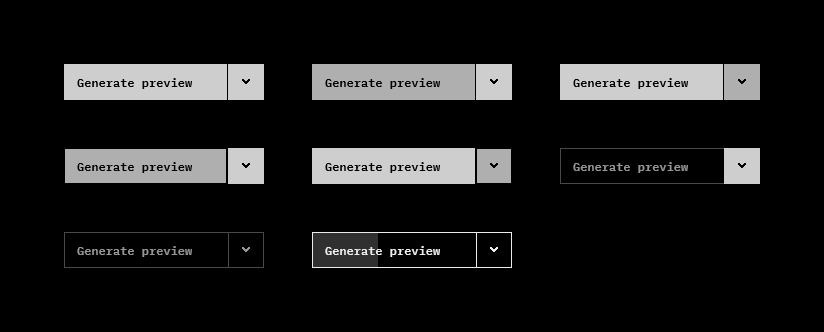
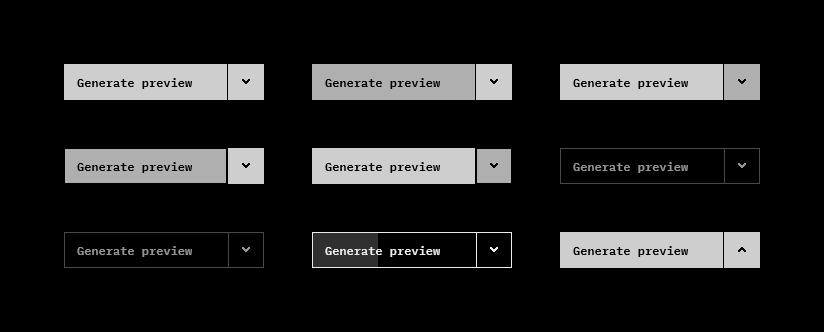
feat(ui): a split action's two parts look alike, its chevron follows the opening direction and its list can take a given width

Changed region(s): [[0.6675, 0.6928, 0.9405, 0.8133], [0.8799, 0.4217, 0.9405, 0.5723]]

diff --git a/crates/mere-ui/src/split.rs b/crates/mere-ui/src/split.rs
@@ -2,10 +2,16 @@
 //! the right, parted from it by a 1 px line, opens a menu of choices (`Trigger::Split` of the menu, which is where
 //! the list, the keyboard and the closing are). What is chosen in the list is shown or remembered by the caller.
 //!
-//! Each part has the hover, the held, the focus and the disabled looks of the primary action (`ActionLook::Primary`),
-//! its own: a word that cannot act (the map already shows these settings) leaves the chevron lit. While a run is under
-//! way the word takes the running look (`ActionLook::Running`) and the chevron the same frame, with nothing filled.
-//! The focus is a 1 px frame inside the part in the colour of its word, the one that shows against its fill.
+//! The two parts are one action and look alike: both filled, or both outlined and faded when either is disabled (a
+//! word that cannot act with a chevron that still opens the list is shown as a whole faded button, its chevron
+//! lighting to the text colour under the pointer and framed in it under the keyboard, so that it can still be found).
+//! Each part has its own hover, held and focus looks of the primary action (`ActionLook::Primary`). While a run is
+//! under way the word takes the running look (`ActionLook::Running`) and the chevron the same frame, with nothing
+//! filled. The focus on a filled part is a 1 px frame inside it in the colour of its word, the one that shows against
+//! its fill.
+//!
+//! The chevron points up when the list opens above the button (`SplitOpts::up`), down when it opens under it. The list
+//! is as wide as the button, or as the rect `SplitOpts::list_over` gives (a row of several actions).
 //!
 //! Keyboard: Enter or Space on the word acts; Down, Alt+Down, Enter or Space on the chevron opens the list.
 //!
@@ -16,6 +22,7 @@
 //! if r.word.is_some_and(|w| w.clicked) { /* act */ }
 //! ```
 
+use mere_base::Rect;
 use mere_layout::{Align, Dim, Edges, Margin, Side, Style};
 
 use crate::id::Id;
@@ -35,6 +42,9 @@ pub struct SplitOpts {
     pub chevron_disabled: bool,
     /// The list opens above the button (a control at the bottom of a panel) instead of under it.
     pub up: bool,
+    /// The list takes this rect's left edge and width, as the caller's last frame laid it out (`Ui::rect`), instead of
+    /// the button's.
+    pub list_over: Option<Rect>,
 }
 
 /// What the pointer and the keyboard did to the parts, as the last frame left them.
@@ -52,39 +62,42 @@ impl Ui {
     /// list.
     pub fn split_action(&mut self, key: &str, word: &str, look: ActionLook, open: &mut bool, opts: SplitOpts, rows: impl FnOnce(&mut Ui)) -> MenuResp {
         debug_assert!(matches!(look, ActionLook::Primary | ActionLook::Running { .. }), "a split action is primary or running");
-        let menu = MenuOpts { up: opts.up, disabled: opts.chevron_disabled, ..MenuOpts::default() };
+        let menu = MenuOpts { up: opts.up, disabled: opts.chevron_disabled, over: opts.list_over, ..MenuOpts::default() };
         self.menu(key, Trigger::Split { word, look, word_disabled: opts.word_disabled }, open, menu, rows)
     }
 
     /// The three boxes of the button. When both parts are filled the 1 px line between them is the ground showing
     /// through; otherwise (a part outlined or running) the two frames share their line, overlapped by `FRAME`.
-    pub(crate) fn split_parts(&mut self, word_id: Id, chevron_id: Id, text: &str, look: ActionLook, word_off: bool, chevron_off: bool, st: SplitState) {
+    pub(crate) fn split_parts(&mut self, word_id: Id, chevron_id: Id, text: &str, look: ActionLook, word_off: bool, chevron_off: bool, up: bool, st: SplitState) {
         let t = *self.theme();
         let running = match look {
             ActionLook::Running { share } => Some(share),
             _ => None,
         };
+        // One look for both parts: faded as soon as one cannot act, though a usable chevron of a faded split still
+        // answers the pointer and the keyboard (text colour), so that it is not lost.
+        let faded = word_off || chevron_off;
         // (paint, colour of what is drawn in the part) of a primary part; the focus is a frame in that colour.
-        let primary = |off: bool, lit: bool, focus: bool| {
-            let (fill, frame, ink) = if off {
-                (None, t.edge, t.muted)
+        let primary = |lit: bool, focus: bool| {
+            let (fill, frame, ink) = if faded {
+                (None, if focus { t.text } else { t.edge }, if lit || focus { t.text } else { t.muted })
             } else if lit {
                 let c = t.faded(t.fill, FADE_LIT);
                 (Some(c), c, t.on_fill)
             } else {
                 (Some(t.fill), t.fill, t.on_fill)
             };
-            let frame = if focus && !off { t.on_fill } else { frame };
+            let frame = if focus && !faded { t.on_fill } else { frame };
             (Paint::Box { fill, frame: Some(frame) }, ink)
         };
-        let filled = running.is_none() && !word_off && !chevron_off;
+        let filled = running.is_none() && !faded;
         let row = Style { w: Dim::Pct(100.0), h: Dim::Px(CONTROL_LARGE), ..Style::default() };
         self.node("split", row, |ui| {
             let word_style = Style { h: Dim::Px(CONTROL_LARGE), pad: Edges::vh(FRAME, FRAME + INSET_WIDE), align_items: Align::Center, grow: 1.0, min_w: Dim::Px(0.0), ..Style::default() };
             let look_word = TextLook { weight: Weight::SemiBold, ..TextLook::body(Tone::Text) };
             let (paint, ink) = match running {
-                Some(share) => (Paint::Running { frame: if word_off { t.edge } else { t.text }, bar: t.line, share }, t.text),
-                None => primary(word_off, st.word_lit, st.word_focus),
+                Some(share) => (Paint::Running { frame: if faded { t.edge } else { t.text }, bar: t.line, share }, t.text),
+                None => primary(st.word_lit, st.word_focus),
             };
             ui.open("word", word_id, word_style, paint);
             ui.add_text(text, look_word, ink, false, Style::default());
@@ -95,11 +108,11 @@ impl Ui {
             let overlap = if filled { Margin::default() } else { Margin { left: Side::Px(-FRAME), ..Margin::default() } };
             let chevron_style = Style { w: Dim::Px(CONTROL_LARGE), h: Dim::Px(CONTROL_LARGE), shrink: 0.0, align_items: Align::Center, margin: overlap, ..Style::default() };
             let (paint, ink) = match running {
-                Some(_) => (Paint::Box { fill: None, frame: Some(if chevron_off { t.edge } else { t.text }) }, if chevron_off { t.muted } else { t.text }),
-                None => primary(chevron_off, st.chevron_lit, st.chevron_focus),
+                Some(_) => (Paint::Box { fill: None, frame: Some(if faded { t.edge } else { t.text }) }, t.text),
+                None => primary(st.chevron_lit, st.chevron_focus),
             };
             ui.open("line", chevron_id, chevron_style, paint);
-            ui.add("chevron", Style { w: Dim::Px(crate::ui::CHEVRON.x), h: Dim::Px(crate::ui::CHEVRON.y), shrink: 0.0, margin: Margin { left: Side::Auto, right: Side::Auto, ..Margin::default() }, ..Style::default() }, Paint::Chevron { color: ink });
+            ui.add("chevron", Style { w: Dim::Px(crate::ui::CHEVRON.x), h: Dim::Px(crate::ui::CHEVRON.y), shrink: 0.0, margin: Margin { left: Side::Auto, right: Side::Auto, ..Margin::default() }, ..Style::default() }, Paint::Chevron { color: ink, up });
             ui.close();
         });
     }

diff --git a/demos/widgets/tests/behaviour.rs b/demos/widgets/tests/behaviour.rs
@@ -1468,6 +1468,9 @@ fn a_split_action_whose_word_is_disabled_still_opens_its_list() {
         let (word, chevron) = (sc.rect(out.word.unwrap()), sc.rect(out.chevron.unwrap()));
         let list = sc.frame(|ui| out = split(ui, &mut open, off));
         sc.pic(&list).is(word.x + 4.0, word.y + word.h - 1.5, t.ground, "the word is outlined, not filled");
+        sc.pic(&list).is(chevron.x + 1.5, chevron.y + chevron.h - 1.5, t.ground, "so is the chevron: one look for both parts");
+        sc.pic(&list).is(word.x + 0.5, word.y + word.h / 2.0, t.edge, "the word's frame is the edge colour");
+        sc.pic(&list).is(chevron.x + chevron.w - 0.5, chevron.y + chevron.h / 2.0, t.edge, "the chevron's, the same");
         sc.click(centre(word), 1);
         sc.frame(|ui| out = split(ui, &mut open, off));
         assert!(!out.clicked, "a disabled word does not act");
@@ -1478,5 +1481,62 @@ fn a_split_action_whose_word_is_disabled_still_opens_its_list() {
         let both_off = SplitOpts { word_disabled: true, chevron_disabled: true, ..SplitOpts::default() };
         sc.frame(|ui| out = split(ui, &mut open, both_off));
         assert!(!open && out.list.is_none());
+    });
+}
+
+/// A split action at (140, 200), 200 wide, opening `up` or under; the list as wide as `over` when given.
+fn split_dir(ui: &mut Ui, open: &mut bool, up: bool, over: Option<Rect>) -> SplitOut {
+    let mut out = SplitOut::default();
+    ui.node("w", Style { w: Dim::Px(200.0), ..at(140.0, 200.0) }, |ui| {
+        let opts = SplitOpts { up, list_over: over, ..SplitOpts::default() };
+        let r = ui.split_action("g", "Generate", ActionLook::Primary, open, opts, |ui| {
+            ui.group("details", |ui| {
+                ui.action_row("a", "A choice with a long name that wants more room than the button");
+            });
+        });
+        out.word = r.word.map(|w| w.id);
+        out.chevron = Some(r.line.id);
+        out.list = r.list;
+    });
+    out
+}
+
+#[test]
+fn a_split_action_points_its_chevron_the_way_its_list_opens() {
+    both(|t| {
+        // The chevron's top row is two 2 px bars at its ends when it points down, a 2 px bar in its middle up.
+        for (up, left_painted) in [(false, true), (true, false)] {
+            let mut sc = Scene::new(t);
+            let (mut open, mut out) = (false, SplitOut::default());
+            sc.frame(|ui| out = split_dir(ui, &mut open, up, None));
+            let list = sc.frame(|ui| out = split_dir(ui, &mut open, up, None));
+            let c = sc.rect(out.chevron.unwrap());
+            let (x, y) = (c.x + ((c.w - 8.0) / 2.0).floor(), (c.y + (c.h - 5.0) / 2.0).floor());
+            let pic = sc.pic(&list);
+            let (ink, bg) = (t.on_fill, t.fill);
+            pic.is(x + 0.5, y + 0.5, if left_painted { ink } else { bg }, "the top row's left end");
+            pic.is(x + 3.5, y + 0.5, if left_painted { bg } else { ink }, "the top row's middle");
+            pic.is(x + 3.5, y + 4.5, if left_painted { ink } else { bg }, "the bottom row's middle");
+        }
+    });
+}
+
+#[test]
+fn a_split_action_list_takes_the_rect_it_is_given_instead_of_the_button() {
+    both(|t| {
+        let mut sc = Scene::new(t);
+        let (mut open, mut out) = (true, SplitOut::default());
+        let row = Rect::new(30.0, 0.0, 340.0, 10.0);
+        sc.frame(|ui| out = split_dir(ui, &mut open, true, Some(row)));
+        sc.frame(|ui| out = split_dir(ui, &mut open, true, Some(row)));
+        let list = sc.rect(out.list.expect("open"));
+        assert!((list.x - 30.0).abs() < 0.01 && (list.w - 340.0).abs() < 0.01, "left edge and width of the rect: {list:?}");
+        let button = sc.rect(out.word.unwrap());
+        assert!(list.y + list.h <= button.y + 0.01, "still above the button");
+        // Without it, the list is the button's width.
+        sc.frame(|ui| out = split_dir(ui, &mut open, true, None));
+        sc.frame(|ui| out = split_dir(ui, &mut open, true, None));
+        let list = sc.rect(out.list.unwrap());
+        assert!((list.x - 140.0).abs() < 0.01 && (list.w - 200.0).abs() < 0.01, "the button's: {list:?}");
     });
 }

diff --git a/crates/mere-ui/src/menu.rs b/crates/mere-ui/src/menu.rs
@@ -71,6 +71,10 @@ pub struct MenuOpts {
     /// the focus (a disabled row is skipped), in build order: the first when None. A list of one choice gives its
     /// chosen row, as a list box does.
     pub start: Option<usize>,
+    /// The list takes the left edge and the width of this rect (window coordinates, as the caller's last frame laid
+    /// it out: `Ui::rect`) instead of its trigger's: a trigger that is one part of a row whose list should be as wide
+    /// as the row. The list is then that wide whatever its rows want. Ignored on a tab, whose list sizes itself.
+    pub over: Option<Rect>,
 }
 
 /// What the person did to a menu this frame.
@@ -260,16 +264,16 @@ impl Ui {
             Trigger::Split { word: text, look, word_disabled } => {
                 let w = word.expect("a split has its word");
                 let state = SplitState { word_lit: w.hovered || w.held, chevron_lit: resp.hovered || resp.held, word_focus: self.has_focus(w.id), chevron_focus: has };
-                self.split_parts(w.id, lid, text, look, word_disabled, opts.disabled, state);
+                self.split_parts(w.id, lid, text, look, word_disabled, opts.disabled, opts.up, state);
             }
             Trigger::Line(text) => {
-                let look = LineLook { height: opts.height.unwrap_or(CONTROL_COMPACT), disabled: opts.disabled, focused: has };
+                let look = LineLook { height: opts.height.unwrap_or(CONTROL_COMPACT), disabled: opts.disabled, focused: has, up: opts.up };
                 self.menu_line("line", lid, text, look);
             }
             Trigger::Tab(word) => {
                 let lit = resp.hovered || resp.held;
                 let (_, color) = self.tab_box("line", lid, lit, word, TabLook::Strip, TabOpts { pressed: *open, disabled: opts.disabled }, Margin::default());
-                self.add_chevron(false, color);
+                self.add_chevron(false, color, opts.up);
                 self.close();
             }
         }
@@ -292,6 +296,13 @@ impl Ui {
                 margin.top = Side::Px(GAP_TIGHT);
             }
             let style = Style { position: Position::Absolute, inset, margin, column: true, pad: Edges::vh(FRAME + INSET_TIGHT, FRAME), ..Style::default() };
+            let mut style = style;
+            if let (Some(over), Some(wrap), false) = (opts.over, self.rect(id), tab) {
+                // Moved by what separates the row's left edge from the trigger's; whole pixels, so the frame is crisp.
+                style.inset.left = Dim::Px((over.x - wrap.x).round());
+                style.inset.right = Dim::Auto;
+                style.w = Dim::Px(over.w.round());
+            }
             self.menu_rows = Some(Vec::new());
             // The row `start` names (Down: the first) takes the focus as it is built, unless Up asked for the last,
             // given once all are built.

diff --git a/crates/mere-ui/src/ui.rs b/crates/mere-ui/src/ui.rs
@@ -48,7 +48,8 @@ pub(crate) enum Paint {
     /// The running generate button: its 1 px frame, then the bar from the padding box's left, `share` of its width.
     Running { frame: Color, bar: Color, share: f32 },
     /// The arrow of a line that opens a list: `CHEVRON` in size, painted as filled 1 px rows, as Chrome's is at 1x.
-    Chevron { color: Color },
+    /// `up` turns it over: the list opens above its trigger.
+    Chevron { color: Color, up: bool },
     /// A text field: its own frame, clip, selection, text and caret (field.rs).
     Field(Box<FieldPaint>),
     /// A scroll area: it offsets its children and draws its thumb and fade after them (scroll.rs).
@@ -872,14 +873,15 @@ impl Painter<'_> {
                 let d = Vec2::new(r.x, r.y);
                 self.list.cmds.extend(cmds.iter().map(|c| c.translated(d)));
             }
-            Paint::Chevron { color } => {
+            Paint::Chevron { color, up } => {
                 // [from, to) of each 1 px row, relative to the leaf's top-left. Five rows centred in an even box
                 // land on a half pixel and blur: the top is kept on a whole pixel.
                 const ROWS: [&[(f32, f32)]; 5] = [&[(0.0, 2.0), (6.0, 8.0)], &[(0.0, 3.0), (5.0, 8.0)], &[(1.0, 7.0)], &[(2.0, 6.0)], &[(3.0, 5.0)]];
                 let top = r.y.floor();
                 for (i, row) in ROWS.iter().enumerate() {
+                    let y = if *up { ROWS.len() - 1 - i } else { i };
                     for &(a, b) in *row {
-                        self.list.fill(Rect::new(r.x + a, top + i as f32, b - a, 1.0), *color);
+                        self.list.fill(Rect::new(r.x + a, top + y as f32, b - a, 1.0), *color);
                     }
                 }
             }

diff --git a/crates/mere-ui/src/line.rs b/crates/mere-ui/src/line.rs
@@ -19,17 +19,19 @@ pub(crate) struct LineLook {
     pub disabled: bool,
     /// Framed in the text colour instead of the edge: the line has the keyboard.
     pub focused: bool,
+    /// The list opens above: the chevron points up.
+    pub up: bool,
 }
 
 impl Ui {
     /// The chevron that says a list opens here, `CHEVRON` in size, always `gap` after the text before it: the one rule
     /// of every trigger, so that a text cut short never touches it. `at_end` pushes it to the end of its box, the room
     /// left over going before it, as the line does.
-    pub(crate) fn add_chevron(&mut self, at_end: bool, color: Color) {
+    pub(crate) fn add_chevron(&mut self, at_end: bool, color: Color, up: bool) {
         self.add("chevron_gap", Style { w: Dim::Px(GAP), shrink: 0.0, ..Style::default() }, Paint::None);
         let left = if at_end { Side::Auto } else { Side::Px(0.0) };
         let style = Style { w: Dim::Px(CHEVRON.x), h: Dim::Px(CHEVRON.y), shrink: 0.0, margin: Margin { left, ..Margin::default() }, ..Style::default() };
-        self.add("chevron", style, Paint::Chevron { color });
+        self.add("chevron", style, Paint::Chevron { color, up });
     }
 
     /// The line: a framed box as wide as its parent, its text cut at its end (as the browser's select does) and the
@@ -49,7 +51,7 @@ impl Ui {
         };
         let node = self.open(key, id, style, Paint::Box { fill: None, frame: Some(frame) });
         self.add_ellipsis(text, TextLook::body(Tone::Text), fade(t.text), false);
-        self.add_chevron(true, fade(t.text));
+        self.add_chevron(true, fade(t.text), look.up);
         self.close();
         node
     }

diff --git a/demos/widgets/src/cards/split_action.rs b/demos/widgets/src/cards/split_action.rs
@@ -1,5 +1,6 @@
 //! The split action card: the primary button in two parts, the word and the chevron that opens a list, in rest, hover
-//! (over each part), held, a word that cannot act, both parts disabled and the running look. The Design System has no
+//! (over each part), held, a word that cannot act (both parts faded alike), both parts disabled, the chevron of a list
+//! that opens above, and the running look. The Design System has no
 //! preview of it yet.
 
 use mere_layout::{Dim, Style};
@@ -26,7 +27,7 @@ pub fn blocks() -> Vec<Block> {
     vec![Block::matrix(vec![
         vec![cell(State::Rest, primary, on, false), cell(State::Hover, primary, on, false), cell(State::Hover, primary, on, true)],
         vec![cell(State::Held, primary, on, false), cell(State::Held, primary, on, true), cell(State::Rest, primary, SplitOpts { word_disabled: true, ..on }, false)],
-        vec![cell(State::Rest, primary, SplitOpts { word_disabled: true, chevron_disabled: true, ..on }, false), cell(State::Rest, ActionLook::Running { share: 0.4 }, on, false)],
+        vec![cell(State::Rest, primary, SplitOpts { word_disabled: true, chevron_disabled: true, ..on }, false), cell(State::Rest, ActionLook::Running { share: 0.4 }, on, false), cell(State::Rest, primary, SplitOpts { up: true, ..on }, false)],
     ])]
 }
 

diff --git a/crates/mere-ui/src/select.rs b/crates/mere-ui/src/select.rs
@@ -65,7 +65,7 @@ impl Ui {
         let mut open = self.was_open(key);
         let mut pick = None;
         let shown = options.get(*chosen).map_or("", String::as_str);
-        let menu = MenuOpts { up: opts.up, disabled: opts.disabled, height: Some(opts.height.unwrap_or(CONTROL)), start: Some(*chosen) };
+        let menu = MenuOpts { up: opts.up, disabled: opts.disabled, height: Some(opts.height.unwrap_or(CONTROL)), start: Some(*chosen), over: None };
         let current = *chosen;
         let r = self.menu(key, Trigger::Line(shown), &mut open, menu, |ui| {
             ui.group("options", |ui| {

diff --git a/AGENTS.md b/AGENTS.md
@@ -21,7 +21,7 @@ A small native interface toolkit in Rust, owned end to end and grown piece by pi
 - `crates/mere-png`: the PNG writer (deflate with fixed Huffman codes) and a reader for the files it writes, for picture tests.
 - `crates/mere-win32`: the Windows backend: Win32 window, Direct3D 11 for meshes, Direct2D and DirectWrite for the interface, offscreen rendering, the system's light or dark setting and its change (`system_dark`, `WM_SETTINGCHANGE`), the input method (IMM32: the composition as `Event::Ime`, the candidate window at the caret, off outside text fields), the own frame (`run_with` and `Frame`: hit test, sizing edges, minimum size, cursors, the wake timer, occlusion), and the window's three optional keepsakes in `Frame` (`icon`: an RGBA square for the taskbar; `place`: a file where the place and size are kept at close and restored at start if a screen still shows them, its text and checks in `place.rs`; `hwnd_file`: the window's handle as a decimal while it exists), and the system launcher (`SystemLauncher`: `CREATE_NO_WINDOW`, `taskkill /T /F`, Explorer, with `std::process` only; the folder dialog is the shell's own, `IFileOpenDialog`, modal over the window). The system's reduced-motion setting (`reduced_motion`, "Animation effects" off, read once by the app).
 - `crates/mere-layout`: pure layout: flex (build step 7), the reduced grid, absolute boxes against their parent and the layout side of overflow (build step 8), tree, measure callbacks, a debug dump. No OS code.
-- `crates/mere-ui`: the immediate-mode interface: ids, pointer input, the design system's values in `tokens.rs` (the palette, the spacing scale and its roles, sizes on a 4 px grid, four fades; a widget takes every colour and measure from there, a padding counting the 1 px frame), the dark and light themes as roles pointing to the palette, label, the action (`action`, once named button; `action_icon` puts an icon before its word), toggle, fold, tabs, the text field and number field, the ellipsis text, the vertical scroll area with the kit's own scrollbar (a 1 px track, a 3 px thumb centred on it, a chevron arrow at each end that has content beyond it, in the theme's line, muted and text colours; shown only on overflow, in its own 12 px gutter), and the list row (also as a round mark), legend head, part head, pick links, the hover area, the icon parser, the window buttons and the grips of `chrome.rs`, the cursor shapes and the tooltips, the composition in the text field and the wide cells, and the history trend row with its plotted lines (editing model in `edit.rs`, one focused field, keys and clipboard through `mere-base`); hit tests use the last frame's rects. Depends on `mere-base` and `mere-layout` only. And, for the launcher's Home (step 21): the select (`select_menu`) and the list hung from a strip tab (`tab_menu`, with `TabMenuRow`s that can be disabled), both a menu holding one group of immediate-selection rows that closes on its pick (`select.rs`), so that the kit has one system of open lists, the tool action with its name (`tool_action`), the launcher's icon looks (`IconLook::Square`, `Filled`, `Bare`, joined squares), the hover box, disabled text and number fields (`FieldOpts`, `number_with`), the underlined action, the toggle's own measures (`toggle_with`), and the page's ease and its 220 ms slide (`anim.rs`, `Slide`). And the overlay (`Ui::overlay`): a framed box painted after the whole tree, outside every clip and on whole pixels, that moves nothing when it is an absolute box; what it covers is not hovered and takes no press, and it shows only while some of its parent is in sight. And the help of a row (`help.rs`): the mark after a label that shows on its row (`help_mark`, placed by `help_label`), the panel that opens over the row from its top and is raised only at the window's bottom (`help_panel`, inside a `help_anchor`), and the small icon to click beside a text (`small_icon`). And the selection controls, each piece made once and assembled. The selector (`selector.rs`): `selector_mark` paints the atom alone, the multiple selector (`Selector::Multiple`, square, the default, a check when selected) or the single selector (`Selector::Single`, round, a dot), on whole pixels at `MARK_SIZE`; it takes no press and shows what `MarkOpts` gives it (disabled, lit, on the selection fill), and every piece that shows a selector paints it there. The labelled selector (`selector` with `SelectorOpts`) puts it beside a label, `control-compact` tall; like the toggle it takes no focus, and its press is only reported, its caller applying it, whatever the kind. The kit is built on Brad Frost's levels, each piece made once and each level only assembling the one below, placed with the spacing roles of `tokens.rs`; why each piece is the way it is stands in its module's comment, and every public name with its former name and the usual one in `docs/naming.md`. Atoms: the selector, the rule (`rule.rs`: `Rule::Section` in the edge colour opens a panel's section, `Rule::Separator` in the line colour parts things inside one), the disabled look (`Theme::disabled_if`, the one fade) and the hover tint (`Theme::tint`). The lines several components share (`line.rs`): the line a list opens from (a framed box, its text cut at its end, the chevron at `CHEVRON` size) and the detail line (a muted "detail · detail_tail" line whose tail is cut at its start, `ellipsize_start`). Molecules, the rows of a list (`row.rs`), on one grid (a lead column `MARK_SIZE` wide facing the label's first line, its drop worked out from the x-height, and the text column, the detail line on a second grid row under the label, so that turning it on or off moves nothing else; `LIST_ROW` tall on one line): the selection row (`selection_row` with a `SelectionRow`: a selector, the whole row takes the press, `Resp.clicked` asks its caller to change `selected`), the action row (`action_row`: no selector, its text lined up with the labels) and the immediate-selection row (`immediate_row` with an `ImmediateRow`: no selector, applied at once, the selected one lit with the tint and marked by an indicator `INDICATOR_W` wide); and the value row (`value.rs`: `value_row`, a label with its help mark, an optional note and a control in a column every row shares). No row, group or atom has a frame or a fill: the focused row is filled with the selection colour, a state. Organisms: the group (`group.rs`: `group`, rows stacked, parted from a group it follows by a separator it places itself; `titled_group`, a title in capitals and a separator over the rows, `gap-wide` after a group) and the split action (`split.rs`: `split_action`, a primary button whose word acts and whose chevron part, parted by a 1 px line, opens a list as wide as the whole button, the menu's `Trigger::Split`; each part has the primary's hover, held, focus and disabled looks, Enter or Space on the word acts, Down, Enter or Space on the chevron opens) and the menu (`menu.rs`: `menu` with a `Trigger`, a line, a strip tab or a split, that opens above it (`MenuOpts::up`) or under it an overlay holding the groups the caller builds; from a line exactly as wide, from a tab as wide as its rows say they want (`Ui::menu_want`). It stays open while rows are acted on, closes on Escape or on a press outside (which reaches nothing else), or when its caller closes it, gives the keyboard back to the trigger from its own rows, reports Enter (`MenuResp::enter`), never scrolls, and opens on the row `MenuOpts::start` names (a select's chosen one). Rows and the trigger hold the one focus as a field does (a press, Tab); Up and Down move it through the open list and open the closed one; the backend sends Space as the character ' '). Templates (`template.rs`): `stage_template` places a stage and up to two side panels from a `StagePlan` (the widths are the application's), beside with a grip in each gap (`split_grip`, reported in `GripResp`) or stacked, each panel then one whole that scrolls (`panel_scroll`). A status sentence under a control is `paragraph` with `TextLook::small(Tone::Warn)`, amber. For the launcher's screens: the section that does not fold (`section.rs`: `section`, its actions at the right end of the head where a fold has its sign; a section with no action is a `fold`), the list line (`list_line.rs`: name and version, then fixed slots for a new version, an action and an icon action, so that lines of different states stay aligned) and the page's title line (`page.rs`: `page_head`, back action, title and what the page offers at its end). And the canvas that takes the keyboard (`Ui::canvas_focus`: a press or Tab focuses it, its arrows, Home, End and Enter reach it as `CanvasKeys` and no other widget, and `Ui::focus_ring` gives it the kit's frame in the text colour), for a control the application draws itself.
+- `crates/mere-ui`: the immediate-mode interface: ids, pointer input, the design system's values in `tokens.rs` (the palette, the spacing scale and its roles, sizes on a 4 px grid, four fades; a widget takes every colour and measure from there, a padding counting the 1 px frame), the dark and light themes as roles pointing to the palette, label, the action (`action`, once named button; `action_icon` puts an icon before its word), toggle, fold, tabs, the text field and number field, the ellipsis text, the vertical scroll area with the kit's own scrollbar (a 1 px track, a 3 px thumb centred on it, a chevron arrow at each end that has content beyond it, in the theme's line, muted and text colours; shown only on overflow, in its own 12 px gutter), and the list row (also as a round mark), legend head, part head, pick links, the hover area, the icon parser, the window buttons and the grips of `chrome.rs`, the cursor shapes and the tooltips, the composition in the text field and the wide cells, and the history trend row with its plotted lines (editing model in `edit.rs`, one focused field, keys and clipboard through `mere-base`); hit tests use the last frame's rects. Depends on `mere-base` and `mere-layout` only. And, for the launcher's Home (step 21): the select (`select_menu`) and the list hung from a strip tab (`tab_menu`, with `TabMenuRow`s that can be disabled), both a menu holding one group of immediate-selection rows that closes on its pick (`select.rs`), so that the kit has one system of open lists, the tool action with its name (`tool_action`), the launcher's icon looks (`IconLook::Square`, `Filled`, `Bare`, joined squares), the hover box, disabled text and number fields (`FieldOpts`, `number_with`), the underlined action, the toggle's own measures (`toggle_with`), and the page's ease and its 220 ms slide (`anim.rs`, `Slide`). And the overlay (`Ui::overlay`): a framed box painted after the whole tree, outside every clip and on whole pixels, that moves nothing when it is an absolute box; what it covers is not hovered and takes no press, and it shows only while some of its parent is in sight. And the help of a row (`help.rs`): the mark after a label that shows on its row (`help_mark`, placed by `help_label`), the panel that opens over the row from its top and is raised only at the window's bottom (`help_panel`, inside a `help_anchor`), and the small icon to click beside a text (`small_icon`). And the selection controls, each piece made once and assembled. The selector (`selector.rs`): `selector_mark` paints the atom alone, the multiple selector (`Selector::Multiple`, square, the default, a check when selected) or the single selector (`Selector::Single`, round, a dot), on whole pixels at `MARK_SIZE`; it takes no press and shows what `MarkOpts` gives it (disabled, lit, on the selection fill), and every piece that shows a selector paints it there. The labelled selector (`selector` with `SelectorOpts`) puts it beside a label, `control-compact` tall; like the toggle it takes no focus, and its press is only reported, its caller applying it, whatever the kind. The kit is built on Brad Frost's levels, each piece made once and each level only assembling the one below, placed with the spacing roles of `tokens.rs`; why each piece is the way it is stands in its module's comment, and every public name with its former name and the usual one in `docs/naming.md`. Atoms: the selector, the rule (`rule.rs`: `Rule::Section` in the edge colour opens a panel's section, `Rule::Separator` in the line colour parts things inside one), the disabled look (`Theme::disabled_if`, the one fade) and the hover tint (`Theme::tint`). The lines several components share (`line.rs`): the line a list opens from (a framed box, its text cut at its end, the chevron at `CHEVRON` size) and the detail line (a muted "detail · detail_tail" line whose tail is cut at its start, `ellipsize_start`). Molecules, the rows of a list (`row.rs`), on one grid (a lead column `MARK_SIZE` wide facing the label's first line, its drop worked out from the x-height, and the text column, the detail line on a second grid row under the label, so that turning it on or off moves nothing else; `LIST_ROW` tall on one line): the selection row (`selection_row` with a `SelectionRow`: a selector, the whole row takes the press, `Resp.clicked` asks its caller to change `selected`), the action row (`action_row`: no selector, its text lined up with the labels) and the immediate-selection row (`immediate_row` with an `ImmediateRow`: no selector, applied at once, the selected one lit with the tint and marked by an indicator `INDICATOR_W` wide); and the value row (`value.rs`: `value_row`, a label with its help mark, an optional note and a control in a column every row shares). No row, group or atom has a frame or a fill: the focused row is filled with the selection colour, a state. Organisms: the group (`group.rs`: `group`, rows stacked, parted from a group it follows by a separator it places itself; `titled_group`, a title in capitals and a separator over the rows, `gap-wide` after a group) and the split action (`split.rs`: `split_action`, a primary button whose word acts and whose chevron part, parted by a 1 px line, opens a list as wide as the whole button, or as a rect the caller gives (`SplitOpts::list_over`, a row of several actions), the menu's `Trigger::Split`; the two parts always look alike (filled, or both outlined and faded when either is disabled, a usable chevron of a faded split lighting under the pointer), each with the primary's hover, held and focus looks, the chevron pointing up when the list opens above, Enter or Space on the word acts, Down, Enter or Space on the chevron opens) and the menu (`menu.rs`: `menu` with a `Trigger`, a line, a strip tab or a split, that opens above it (`MenuOpts::up`) or under it an overlay holding the groups the caller builds; from a line exactly as wide, from a tab as wide as its rows say they want (`Ui::menu_want`). It stays open while rows are acted on, closes on Escape or on a press outside (which reaches nothing else), or when its caller closes it, gives the keyboard back to the trigger from its own rows, reports Enter (`MenuResp::enter`), never scrolls, and opens on the row `MenuOpts::start` names (a select's chosen one). Rows and the trigger hold the one focus as a field does (a press, Tab); Up and Down move it through the open list and open the closed one; the backend sends Space as the character ' '). Templates (`template.rs`): `stage_template` places a stage and up to two side panels from a `StagePlan` (the widths are the application's), beside with a grip in each gap (`split_grip`, reported in `GripResp`) or stacked, each panel then one whole that scrolls (`panel_scroll`). A status sentence under a control is `paragraph` with `TextLook::small(Tone::Warn)`, amber. For the launcher's screens: the section that does not fold (`section.rs`: `section`, its actions at the right end of the head where a fold has its sign; a section with no action is a `fold`), the list line (`list_line.rs`: name and version, then fixed slots for a new version, an action and an icon action, so that lines of different states stay aligned) and the page's title line (`page.rs`: `page_head`, back action, title and what the page offers at its end). And the canvas that takes the keyboard (`Ui::canvas_focus`: a press or Tab focuses it, its arrows, Home, End and Enter reach it as `CanvasKeys` and no other widget, and `Ui::focus_ring` gives it the kit's frame in the text colour), for a control the application draws itself.
 - `demos/shell-boxes`: the world preview's page shell laid out at 1400, 1200 and 1000 px and drawn as named boxes and the gallery of the page's grid rows and absolute boxes (`cargo test -p shell-boxes` writes `target/tmp/shell_<width>.png` and `target/tmp/gallery.png`).
 - The world preview's window (`preview/`) and the relief demo (`relief/`) are not here: they now live in the `outpost-tools` repository (https://github.com/louisfifre/outpost-tools), which depends on this kit by git tag. `outpost-tools` pins a tag of this repository, so renaming a crate is a breaking change for it at its next pin.
 - `demos/widgets`: the Design System's components as cards, one per component (`src/cards`, thirty-five: action, action-icon, action-row, cover, detail-tabs, fold, group, help, hover-box, icon-action, immediate-row, list-heads, list-line, list-row, menu, number-field, page-head, rule, scroll-area, section, select, selection-row, selector, split-action, stage-template, stop-action, tab-menu, tabs, text, text-field, toggle, tool-action, tooltip, trend-row, value-row), each the same picture as the Design System's preview of it (`components/<Name>/preview.html`; the cards of the selection family, the rule, the group, the value row and the stage template stand alone until the Design System has previews of them; a row's card shows rest, hover, held, focused and disabled, the focus given by a press with the pointer then moved away): no caption, `SPACE_64` padding, blocks `SPACE_96` apart, a matrix being a grid of `SPACE_48` gaps whose cells are each built in their own `Ui` so one pointer can hover or hold them (`cards/mod.rs`: `Block`, `Cell`, `State`, `render`). `cargo test -p widgets --test cards` writes `target/tmp/card_<name>_<dark|light>.png` for every card in both themes (`docs/shots/card-*.png` are copies), `widgets --card NAME [--light] [--shot out.png]` opens one in a window or draws it offscreen, and `tests/behaviour.rs` drives widgets in a `Ui` (pointer, keys, characters, the input method) and checks the frame's pixels: action and toggle states, icon action looks, field focus, caret and selection, the composition's underline, the number field, the scrollbar, list rows, the multiple and the single selector (a press reported, the value the caller's), the selection row (press, Space, focus, disabled, the detail tail cut at its start, a single selection row with a detail line), the immediate-selection row (applied on its press, lit and marked), the group's separator and spacing, the value row's mark, the split grip, the split action (its word, its chevron, its list above, its keys, a disabled word), and the menu (its width and place, open while selecting, a single choice closed on its pick, the action row's text lined up with the labels, Up and Down, Escape, a press outside, Enter reported, Tab), and the amber status sentence.

diff --git a/docs/naming.md b/docs/naming.md
@@ -43,7 +43,7 @@ Former name cell gives the stem and the others follow it.
 | `small_icon`, `SMALL_ICON`, `HELP_MARK_W` | A small icon to click beside a text; its size; the mark's hit width | — | keep | `button` | Material: icon button (small) |
 | `action`, `action_with`, `ActionOpts`, `ActionLook` | Runs something when pressed: filled, plain, link, running, pick and underlined looks | `button`, `button_with`, `ButtonOpts`, `ButtonLook` | chosen by the session | `button` | Material, Fluent, Carbon, Radix Themes, shadcn: Button; Apple: button |
 | `action_icon` | An action with an icon before its word, in the primary or the plain look: the page title's Play and Start | `button_with_icon` | chosen by the session (to validate with the maintainer) | `button` | Material: Button with a leading icon; Carbon: Button with icon; Fluent: Button with icon |
-| `split_action`, `SplitOpts`, `Trigger::Split` | A primary action in two parts: its word acts, a chevron part opens a list of choices | `split_button`, `SplitButtonOpts` | chosen by the session (to validate with the maintainer) | `button` and `button` with `aria-haspopup` | Material 3: split button; Carbon: combo button; Fluent: SplitButton; Apple: pull-down button |
+| `split_action`, `SplitOpts` (`list_over`), `Trigger::Split` | A primary action in two parts that always look alike: its word acts, a chevron part (pointing the way the list opens) opens a list of choices, as wide as the button or as the rect `list_over` gives | `split_button`, `SplitButtonOpts` | chosen by the session (to validate with the maintainer) | `button` and `button` with `aria-haspopup` | Material 3: split button; Carbon: combo button; Fluent: SplitButton; Apple: pull-down button |
 | `stop_action` | A framed square with a filled square: stops a run | `stop_button` | chosen by the session | `button` | Material: icon button; Apple: button |
 | `icon_action`, `IconOpts`, `IconLook` | An action drawn as an icon: tool, caption, close, square, filled, bare looks | `icon_button` | chosen by the session | `button` | Material: IconButton; Fluent: Button with icon only; Carbon: icon-only Button |
 | `toggle`, `toggle_with`, `ToggleOpts` | An option that is on or off, with its two words | — | keep ("toggle" names the gesture, not an object) | `switch` | Fluent: ToggleSwitch; Material: Switch; Carbon: Toggle; Apple: toggle; Radix, shadcn: Switch |
@@ -81,7 +81,7 @@ Former name cell gives the stem and the others follow it.
 
 | Name | What it does | Former name | Status | ARIA | Design systems |
 |---|---|---|---|---|---|
-| `menu`, `MenuOpts`, `MenuResp` | A trigger that opens a list of rows above or under it; stays open while rows are acted on | — | confirmed | `menu` (list) with a menu button | Radix: DropdownMenu; Base UI: Menu; Apple: pull-down button; Fluent: MenuFlyout; Material: DropdownMenu |
+| `menu`, `MenuOpts` (`over`), `MenuResp` | A trigger that opens a list of rows above or under it (its chevron pointing that way), as wide as a given rect if one is given; stays open while rows are acted on | — | confirmed | `menu` (list) with a menu button | Radix: DropdownMenu; Base UI: Menu; Apple: pull-down button; Fluent: MenuFlyout; Material: DropdownMenu |
 | `Trigger::Line`, `Trigger::Tab` | What opens a menu: a framed line with a chevron, or a strip tab | — | chosen by the session | `button` with `aria-haspopup`, `aria-expanded` | Radix, Base UI: Trigger |
 | `group`, `titled_group`, `GroupResp` | Rows stacked with no frame; the titled one has a title in capitals and a separator under it | — | chosen by the session | `group` | Radix, Base UI: Group + Label; HTML: `optgroup`; Apple: section |
 | `section`, `ACTIONS_GAP` | A titled section that does not fold, its actions at the right end of its head where a fold has its sign; with no action the section is a `fold` | — | chosen by the session (to validate with the maintainer) | `region` with a heading | Carbon: section heading with actions; Polaris: Card header with actions |
